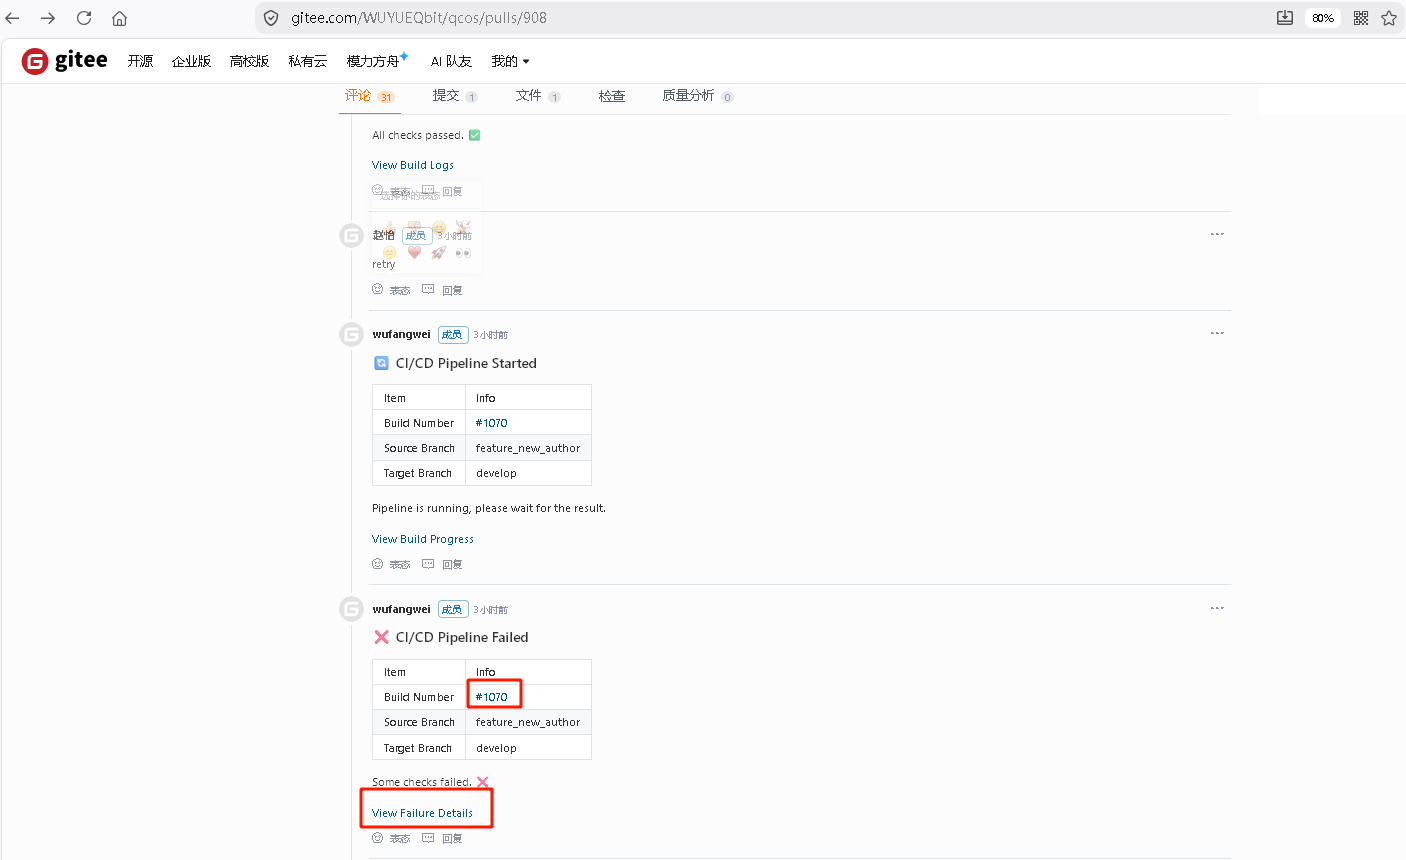
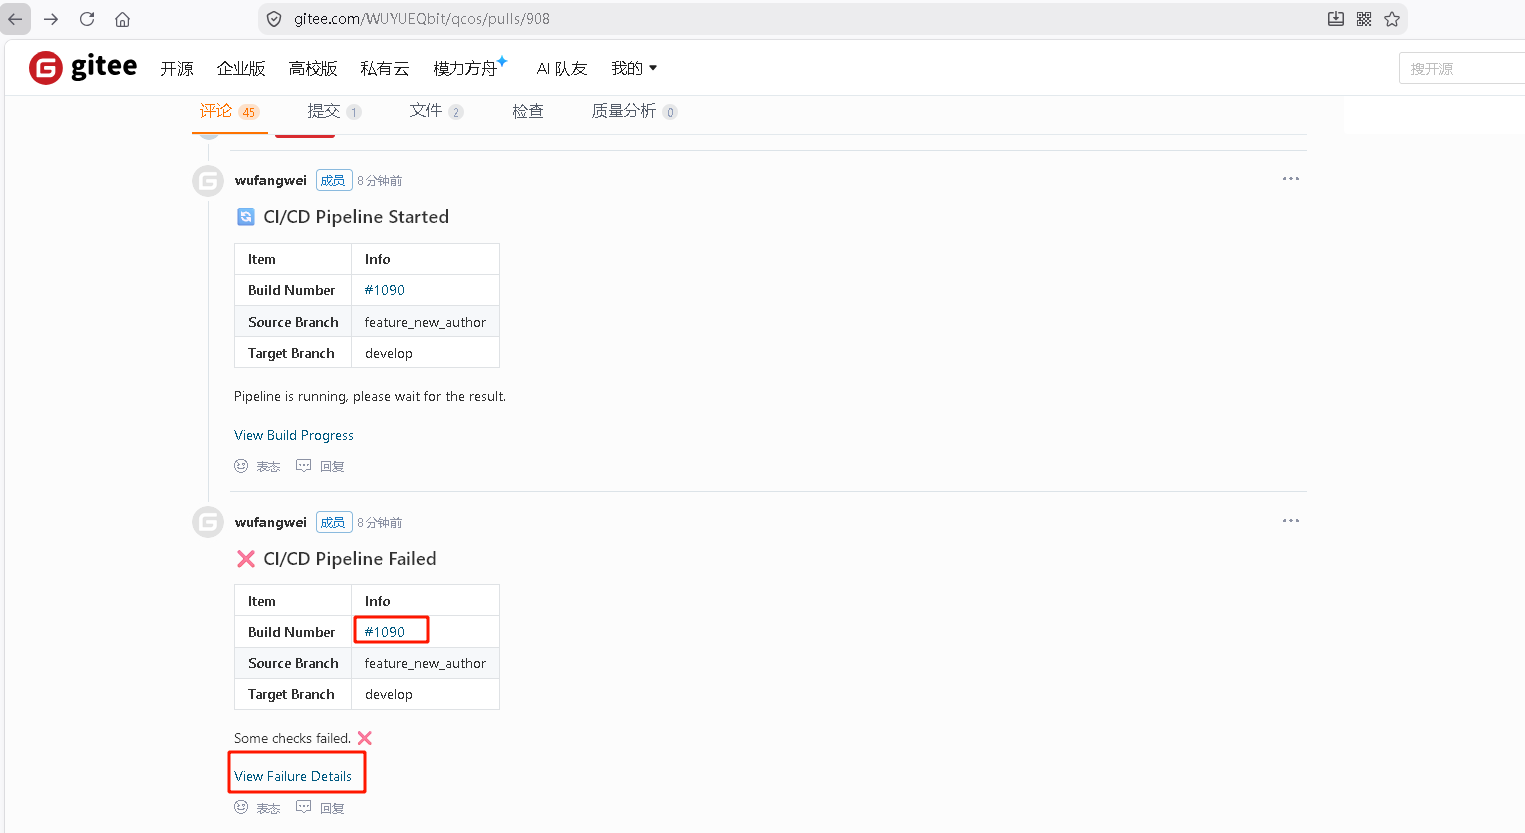
Update developer guide with CI/CD and permissions
Description:
1. 更新CICD测试说明文档
2. 新增Jenkins测试流水线截图
3. 新增Jenkins报错日志截图
4. 新增申请开发者权限章节
5. 新增接受邀请截图
6. 更新CICD报错截图

diff --git a/docs/sphinx/source/developer-guide/code-commit.rst b/docs/sphinx/source/developer-guide/code-commit.rst
@@ -247,7 +247,7 @@ CICD自动测试评审
 1. **commit-check**：检查 commit message 格式和文件格式规范
 2. **code-check**：代码静态检查（Linter）、代码风格（Code Style）、Docstring 检查
 3. **docs-check**：文档规范检查
-4. **functional-tests**：C++ 单元测试、Python 代码覆盖率测试、客户端测试
+4. **functional-tests**：QCOS单元测试和代码覆盖率、QCOS转译器(C++)单元测试、QCOS Client客户端单元测试和代码覆盖率
 
 .. rubric:: PR 评审交互
 
@@ -275,12 +275,23 @@ CI/CD 流水线在执行过程中会自动与 Gitee PR 进行交互反馈：
 
    Gitee PR评论区CICD报错日志链接
 
-.. figure:: ../_static/developer-guide/cicd-check.png
-   :alt: Jenkins日志界面排查问题
+Jenkins测试流水线以及具体报错日志：
+
+.. figure:: ../_static/developer-guide/cicd-failed-logs.png
+   :alt: Jenkins测试流水线以及具体报错日志
    :width: 80%
    :align: center
 
-   CICD日志界面排查问题
+   Jenkins测试流水线以及具体报错日志
+
+也可以查看Jenkins测试时所有的console日志：
+
+.. figure:: ../_static/developer-guide/cicd-check.png
+   :alt: Jenkins Console日志界面排查问题
+   :width: 80%
+   :align: center
+
+   Jenkins Console日志界面排查问题
 
 .. rubric:: 重新触发CICD测试
 

diff --git a/docs/sphinx/source/developer-guide/developer-environment.rst b/docs/sphinx/source/developer-guide/developer-environment.rst
@@ -45,6 +45,22 @@ Fork QCOS 代码仓库
    Fork QCOS 代码仓库
 
 
+申请QCOS开发者权限
+------------------------------
+
+使用自己的 Gitee 账户登录，点击下面的链接申请QCOS项目的开发者权限，用于创建PR/issue、推送代码等操作：
+`申请QCOS项目开发者权限 <https://gitee.com/WUYUEQbit/qcos/invite_link?invite=c86b5d608edb0c86659c61dfab4250d2c6def4b6218d2c0ae511b1509403e86e1c4c60cac6d7a883a5d0c3055102a31377d723a507919dab>`_
+
+点击"接受"
+
+.. figure:: ../_static/developer-guide/gitee-accept-developer-invitation.png
+   :alt: 接受邀请加入WUYUEQbit/QCOS仓库成为开发者
+   :width: 80%
+   :align: center
+
+   接受邀请加入WUYUEQbit/QCOS仓库成为开发者
+
+
 签署贡献者许可协议（CLA）
 ------------------------------
 
